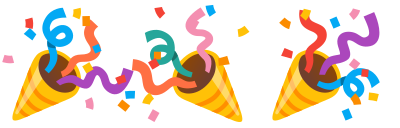
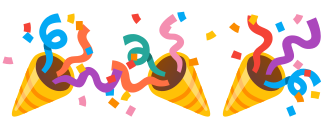
Balance party-popper size and spacing
Use a consistent 86% scale: roughly 9-10% smaller than the original cones, while retaining more presence than the earlier 70-80% layout. Tighten the full-size arrangement to 224px pair and 330px trio canvases, keeping distinct streamer colours/shapes and 2% em cluster-boundary kerning.

Rebuild SVG, PNG and COLRv1 artwork and update documentation. Keep bitmap tiling, LFSRs, singleton artwork and all other families unchanged.

Validation: 47 tests and 812 subtests; native recovery in both formats; actual packaged TTF/WOFF2 shaping and Chromium desktop/mobile rendering, including clipping, bitmap reconstruction and internal/boundary kerning checks.

diff --git a/ligatures/supplemental/build_clusters.py b/ligatures/supplemental/build_clusters.py
@@ -235,7 +235,7 @@ def compose(family, count):
     source = ET.parse(ART/'source'/f'emoji_u{FAMILIES[family]:x}.svg').getroot()
     width = {('headstone',2):180, ('headstone',3):238,
              ('fireworks',2):188, ('fireworks',3):250,
-             ('popper',2):255, ('popper',3):400,
+             ('popper',2):224, ('popper',3):330,
              ('fire',2):174, ('fire',3):230,
              ('moneybags',2):180, ('moneybags',3):206}[family,count]
     root = ET.Element(T('svg'),width=str(width),height='128',viewBox=f'0 0 {width} 128')
@@ -255,11 +255,11 @@ def compose(family, count):
                      'translate(-3 15) scale(.88) rotate(-6 64 64)',
                      'translate(83 13) scale(.90) rotate(5 64 64)'))
     elif family == 'popper':
-        placements = (('translate(128 3) scale(.96)',
-                       'translate(6 4) scale(.94)') if count==2 else
-                      ('translate(126 3) scale(.96)',
-                       'translate(6 4) scale(.94)',
-                       'translate(266 4) scale(.94)'))
+        placements = (('translate(108 10) scale(.86)',
+                       'translate(6 10) scale(.86)') if count==2 else
+                      ('translate(106 10) scale(.86)',
+                       'translate(6 10) scale(.86)',
+                       'translate(217 10) scale(.86)'))
     else:
         # Overlap at the bases, with a taller flame behind two lower flames.
         placements = (('translate(49 -2) scale(.99)', 'translate(-6 21) scale(.83)') if count==2 else

diff --git a/ligatures/supplemental/CLUSTERS.md b/ligatures/supplemental/CLUSTERS.md
@@ -6,8 +6,9 @@ inscriptions and a smaller rear row. Fireworks use five distinct explosions acro
 pink full bloom, cyan opening, green willow trails and coral fading embers,
 with different heights and ray layouts. Poppers vary paper colours/positions and
 reverse the middle cone; each of the five poppers has a distinct permutation
-of three streamer shapes across the same outward-facing slots. Cones retain their original 94–96% scales in wider 255px pair and 400px trio
-canvases, with more room for their bodies and streamer clouds. Cluster-boundary kerning is only 2%
+of three streamer shapes across the same outward-facing slots. Cones use a consistent 86% scale on 224px pair and 330px trio canvases. This
+modest reduction leaves room for their bodies and streamer clouds without the
+large gaps of the full-size layout. Cluster-boundary kerning is only 2%
 of an em. Cone stripes and shading are unchanged. The middle flame also curls the opposite way. The native singleton is
 unchanged. These families share binary history with every other cluster family, using
 alternating startup and the period-31 binary LFSR to mix pairs and trios,

diff --git a/MODIFIERS.md b/MODIFIERS.md
@@ -188,7 +188,7 @@ and trio. Matching vertical sky gradients and overlap kerning conceal the
 rounded interior corners, without contextual background variants. Clear sky
 margins keep all sparks outside the overlapping regions. Moneybags form overlapping piles with readable dollar signs and a smaller rear
 bag in the trio. Middle poppers/flames are mirrored; streamers and confetti
-have different positions and colours. Poppers retain their original sizes on wider canvases,
+have different positions and colours. Poppers use a modest 86% scale with balanced spacing,
 with only 2% em boundary kerning. Wide bitmap artwork is emitted in adjacent
 pieces after modifier assembly; those pieces do not alter LFSR history.
 
